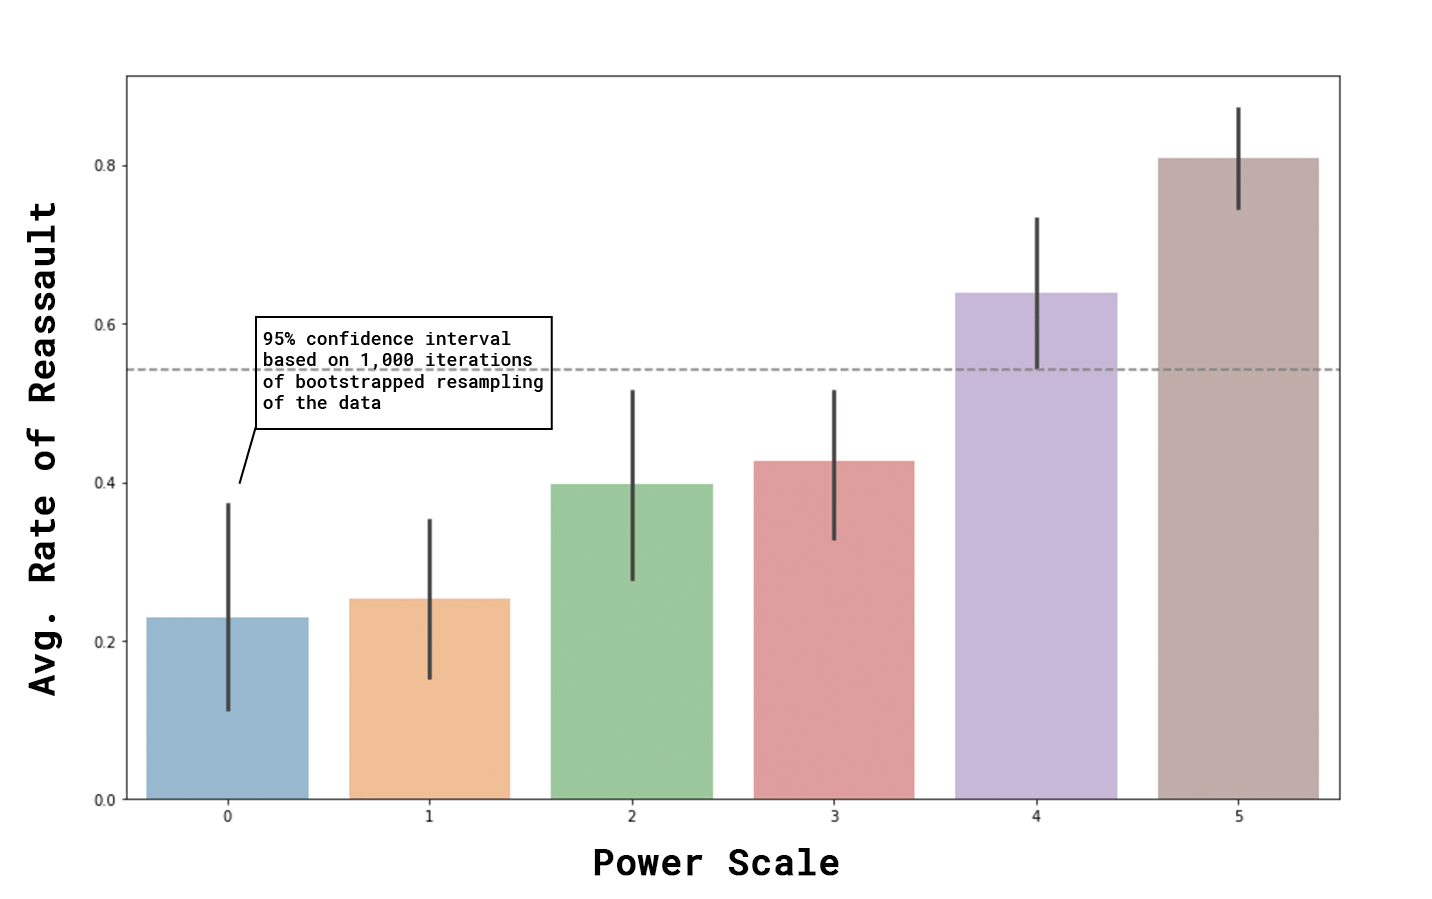
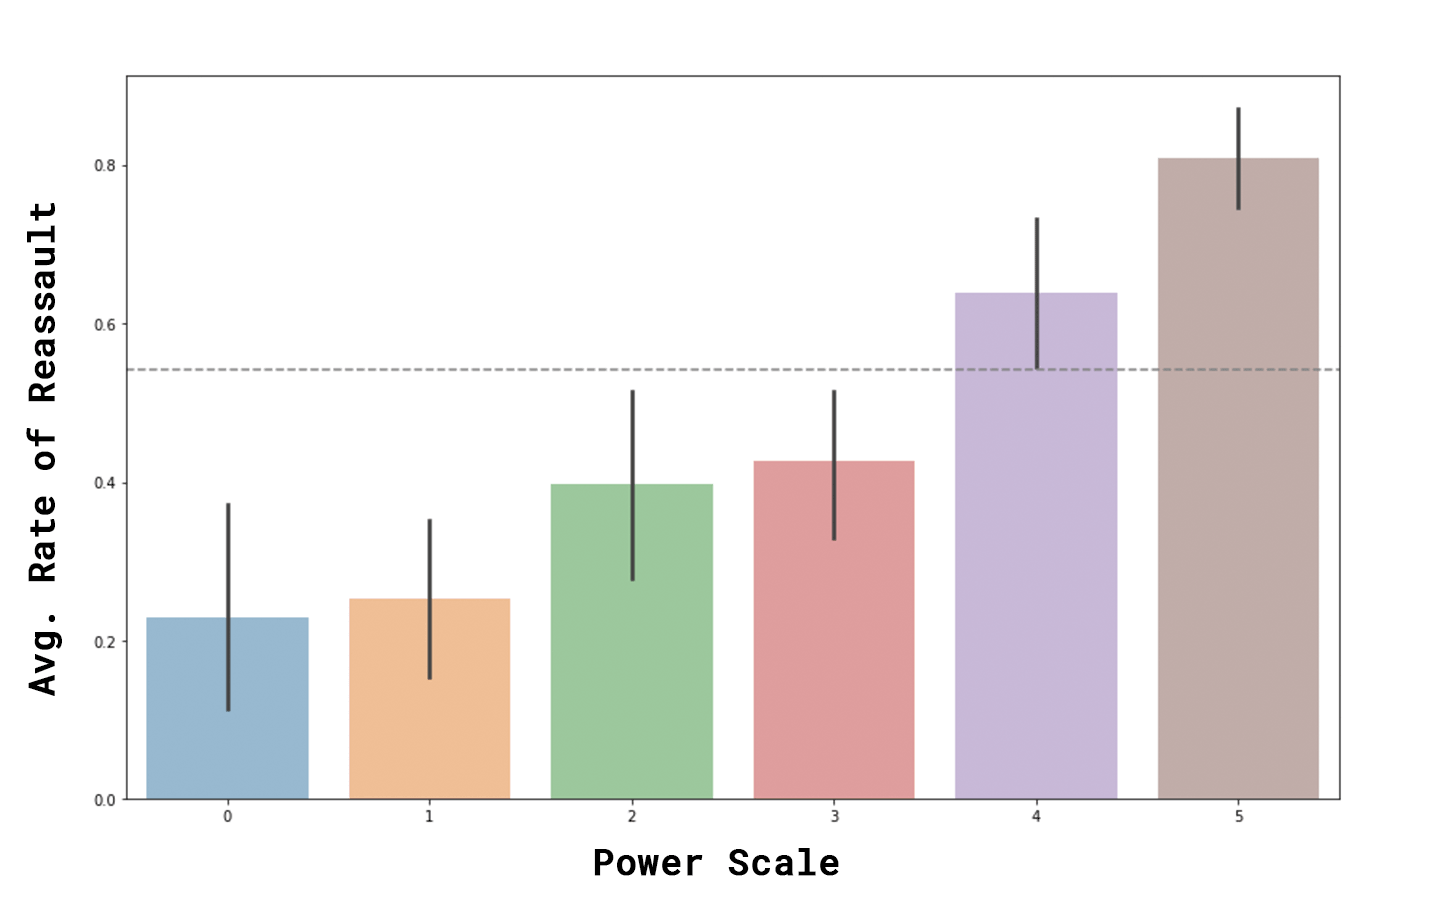
remove annotation

Changed region(s): [[0.1844, 0.3426, 0.3994, 0.4672]]

diff --git a/templates/domestic-violence/dv.html b/templates/domestic-violence/dv.html
@@ -83,7 +83,7 @@
 
 			<div class="row">
 
-			<div class="nine columns main-col">
+			<div class="ten columns main-col">
 
 				<h2>The Problem</h2>
 
@@ -106,7 +106,7 @@
 
 			</div><!-- end .main-col -->
 
-			<div class="three columns">
+			<div class="two columns">
 
 				
 
